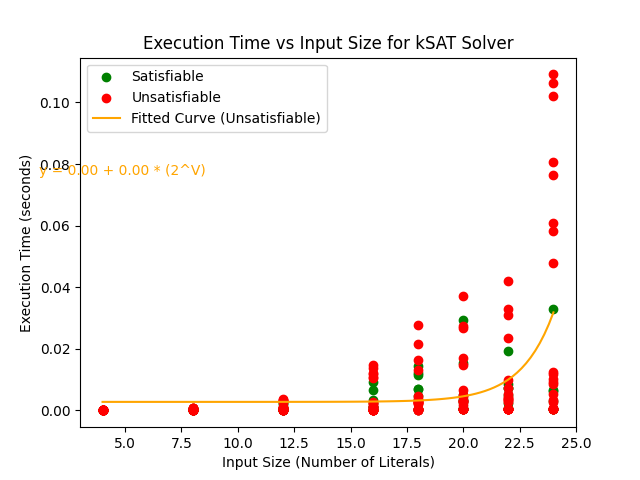
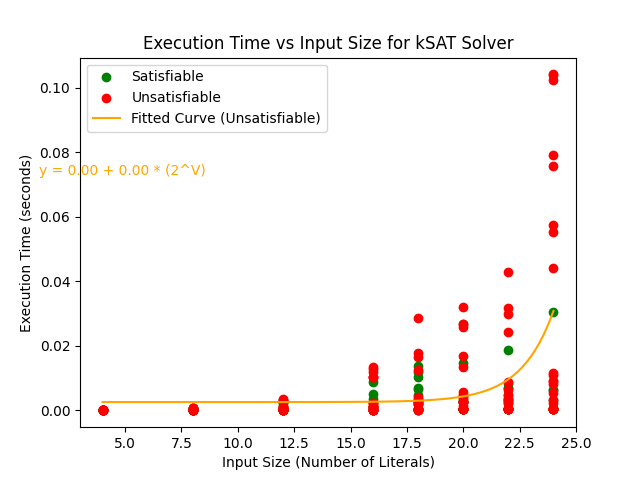
Final Submission

diff --git a/project1/src/kSAT_solver_nswat.py b/project1/src/kSAT_solver_nswat.py
@@ -60,7 +60,7 @@ def choose_literal(clauses):
     #choose first literal (clauses is modified as alg goes on)
     return clauses[0][0]
 
-def exp_func(x, a, b):
+def exp_func(x,a,b):
     return b + a*(2**x)
 
 if __name__ == "__main__": 
@@ -72,7 +72,6 @@ if __name__ == "__main__":
     with open(args.filename) as file: 
         CSV_data = list(csv.reader(file))
     problems, literal_counts = csv_to_wff_dict(CSV_data)
-    print(literal_counts)
     input_sizes = []            #lists for execution time plots 
     satisfiable_times = []
     unsatisfiable_times = []
@@ -109,17 +108,16 @@ if __name__ == "__main__":
 
     if len(filtered_unsatisfiable) > 0 and len(input_sizes) > 0:
         # Fit the exponential curve for unsatisfiable times
-        params_unsatisfiable, _ = curve_fit(exp_func, filtered_unsat_inputs, filtered_unsat_times, p0=(1, 0.01))
+        params_unsatisfiable, _ = curve_fit(exp_func, filtered_unsat_inputs, filtered_unsat_times, p0=(0.001, 0.001))
 
     if len(filtered_unsat_times) > 0:
         y_fit_unsatisfiable = exp_func(x_fit, *params_unsatisfiable)
         plt.plot(x_fit, y_fit_unsatisfiable, color='orange', label='Fitted Curve (Unsatisfiable)')
         a, b = params_unsatisfiable
-        equation_unsatisfiable = f'y = {b:.2f} + {a:.2f} * (2^V)'
-        plt.text(0.05 * max(filtered_unsat_inputs), 0.7 * max(filtered_unsat_times), equation_unsatisfiable, color='orange')
 
+        
     plt.xlabel('Input Size (Number of Literals)')
     plt.ylabel('Execution Time (seconds)')
     plt.title('Execution Time vs Input Size for kSAT Solver')
     plt.legend()
-    plt.savefig('execution_time_graph.png')
+    plt.savefig('plot_execution_time_graph.png')
